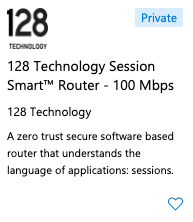
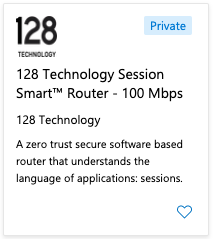
Addressed comments PR59. Replace markdown image sintax with HTML in order to resize images

diff --git a/docs/intro_installation_azure.md b/docs/intro_installation_azure.md
@@ -34,30 +34,33 @@ The following image depicts a graphical representation of the infrastructure ele
 
 #### Azure Portal
 
-Please click [here](https://azuremarketplace.microsoft.com/en-ca/marketplace/apps/128technology.128technology_conductor_hourly) to go to the Marketplace. Click on the "Get it now" button, agree to the terms of use and privacy policy and click on the tab "Plans" as shown in the following picture:
+Please click [here](https://azuremarketplace.microsoft.com/en-ca/marketplace/apps/128technology.128technology_conductor_hourly) to go to the Marketplace. Click on the "Get it now" button, agree to the terms of use and privacy policy of the image and click on the tab "Plans" as shown in the following picture:
 
 ![Plans](/img/platforms_azure_plans.png)
 
 Lastly click on the "Launch" link of the template that better suits your needs.
 
 Answer the following 3 questions to launch the deployment of a 128T Conductor (additional information [here](#launch-the-template)):
-* What name do you want to give it? Provide it in the "Instance Name" field (for example: 128TConductor).
-* Where do you want to deploy it? Provide the location where the VNet exists in the "Location" field (for example: eastus. All available locations [here](https://azure.microsoft.com/en-us/global-infrastructure/locations)), the name of the VNet in the "Virtual Network Name" field (for example: 128T-VNet) and the name of a subnet in the "Control Subnet Name" field (for example: default).
-* Who is going to be the administrator? Provide an username (for example: t128) in the "Admin Username" field and the content of your public SSH key in the "Admin Public Key Data" field respectively.
+* What name do you want to give it?  
+Provide it in the "Instance Name" field (for example: 128TConductor).
+* Where do you want to deploy it?  
+Provide the location where the VNet exists in the "Location" field (for example: eastus. All available locations [here](https://azure.microsoft.com/en-us/global-infrastructure/locations)), the name of the VNet in the "Virtual Network Name" field (for example: 128T-VNet) and the name of a subnet in the "Control Subnet Name" field (for example: default).
+* Who is going to be the administrator?  
+Provide an username (for example: t128) in the "Admin Username" field and the content of your public SSH key in the "Admin Public Key Data" field respectively.
 
-Agree to the terms of use and conditions and lastly click on the "Purchase" button to launch the deployment.
+Agree to the terms of use and conditions of the deployment and lastly click on the "Purchase" button to launch the deployment.
 
 ![Plans](/img/platforms_azure_deployment_complete.png)
 
-Once the deployment completes information of the newly 128T Conductor deployment is provided in the Outputs tab placed on the left hand side. Click on the HTTPs URL to login to the 128T Conductor GUI (if the web browser used is Chrome and it does not trust the connection to the 128T Conductor GUI due to its self-signed certificate type: thisisunsafe). The credentials are "admin" for username and the name of the VM for the password. To login to the VM via SSH use the username and the SSH public key provided in the template.
+Once the deployment completes, information of the newly 128T Conductor deployment is provided in the Outputs tab placed on the left hand side. Click on the HTTPs URL to login to the 128T Conductor GUI (if the web browser used is Chrome and it does not trust the connection to the 128T Conductor GUI due to its self-signed certificate type: thisisunsafe). The credentials are "admin" for username and the name of the VM for the password. To login to the VM via SSH use the username and the SSH public key provided in the template.
 
 :::important
 Be sure to change the password that conforms to your business' password requirements and criteria.
-:::important
+:::
 
 #### Azure CLI or PowerShell
 
-Please click [here](https://azuremarketplace.microsoft.com/en-ca/marketplace/apps/128technology.128technology_conductor_hourly) to go to the Marketplace. Click on the "Get it now" button, agree to the terms of use and privacy policy, click on the "Get started" button to enable programmatic deployment for the subscription and click the button "Save" to save the changes.
+Please click [here](https://azuremarketplace.microsoft.com/en-ca/marketplace/apps/128technology.128technology_conductor_hourly) to go to the Marketplace. Click on the "Get it now" button, agree to the terms of use and privacy policy of the image, click on the "Get started" button to enable programmatic deployment for the subscription and click the button "Save" to save the changes.
 
 ![Plans](/img/platforms_azure_programmatically.png)
 
@@ -67,13 +70,13 @@ Click on the tab "Plans" as shown in the following picture:
 
 Lastly copy to the clipboard the URL of the template located in the field "URL" that better suits your needs.
 
-Create the parameters file, accept the terms of use and conditions and lastly launch the deployment with the corresponding Azure CLI or PowerShell commands making use of the URL of the template identified previously. For additional information please click [here](#launch-the-template).
+Create the parameters file, accept the terms of use and conditions of the image and lastly launch the deployment with the corresponding Azure CLI or PowerShell commands making use of the URL of the template identified previously. For additional information please click [here](#launch-the-template).
 
-Once the deployment completes information of the newly 128T Conductor deployment is provided in the Outputs section. Click on the HTTPs URL to login to the 128T Conductor GUI (if the web browser used is Chrome and it does not trust the connection to the 128T Conductor GUI due to its self-signed certificate type: thisisunsafe). The credentials are "admin" for username and the password is the name of the VM. To login to the VM via SSH use the username and the SSH public key provided in the template.
+Once the deployment completes, information of the newly 128T Conductor deployment is provided in the Outputs section. Click on the HTTPs URL to login to the 128T Conductor GUI (if the web browser used is Chrome and it does not trust the connection to the 128T Conductor GUI due to its self-signed certificate type: thisisunsafe). The credentials are "admin" for username and the password is the name of the VM. To login to the VM via SSH use the username and the SSH public key provided in the template.
 
 :::important
 Be sure to change the password that conforms to your business' password requirements and criteria.
-:::important
+:::
 
 ## 128T Session Smart Router Deployment
 
@@ -91,7 +94,7 @@ The following infrastructure must exist in your Azure subscription:
 
 :::important
 Please note that deploying 128 Technology Session Smart Routers without a valid certificate will be limited to deployments within the cloud only. If your use case requires the deployment of a 128T Router on your premises as well please contact 128 Technology directly [here](https://www.128technology.com/get-started).
-:::important
+:::
 
 ### Deployment
 
@@ -110,29 +113,33 @@ The following image depicts a graphical representation of the infrastructure ele
 
 #### Azure Portal
 
-Please click [here](https://azuremarketplace.microsoft.com/en-us/marketplace/apps/128technology.128technology_router_100_hourly) to go to the Marketplace. Click on the "Get it now" button, agree to the terms of use and privacy policy and click on the tab "Plans" as shown in the following picture:
+Please click [here](https://azuremarketplace.microsoft.com/en-us/marketplace/apps/128technology.128technology_router_100_hourly) to go to the Marketplace. Click on the "Get it now" button, agree to the terms of use and privacy policy of the image and click on the tab "Plans" as shown in the following picture:
 
 ![Plans](/img/platforms_azure_plans.png)
 
 Lastly click on the "Launch" link of the template that better suits your needs.
 
 Answer the following 4 questions to launch the deployment of a 128T Session Smart Router (additional information [here](#launch-the-template)):
-* What name do you want to give it? Provide it in the "Instance Name" field (for example: 128TRouter).
-* Where do you want to deploy it? Provide the location where the VNet exists in the "Location" field (for example: eastus. All available locations [here](https://azure.microsoft.com/en-us/global-infrastructure/locations)), the name of the VNet in the "Virtual Network Name" field (for example: 128T-VNet), the name of the availability set in the "Availability Set Name" field (for example: 128TRouterSet) and the name of the public, private and management subnets in the "Public Subnet Name", "Private Subnet Name" and "Management Subnet Name" fields respectively (for example: wan, lan and default).
-* Which 128T Conductor is going to manage it? Provide the IP address of the primary node of Conductor in the "Conductor Primary Control IP" field, and only if the Conductor is highly available then provide the IP address of the secondary node of Conductor in the "Conductor Secondary Control IP" field. Please check the public IP address assigned to the 128 Technology Conductor deployed in the previous section.
-* Who is going to be the administrator? Provide an username (for example: t128) and the content of your public SSH key in the "Admin Username" and "Admin Public Key Data" fields respectively.
+* What name do you want to give it?  
+Provide it in the "Instance Name" field (for example: 128TRouter).
+* Where do you want to deploy it?  
+Provide the location where the VNet exists in the "Location" field (for example: eastus. All available locations [here](https://azure.microsoft.com/en-us/global-infrastructure/locations)), the name of the VNet in the "Virtual Network Name" field (for example: 128T-VNet), the name of the availability set in the "Availability Set Name" field (for example: 128TRouterSet) and the name of the public, private and management subnets in the "Public Subnet Name", "Private Subnet Name" and "Management Subnet Name" fields respectively (for example: wan, lan and default).
+* Which 128T Conductor is going to manage it?  
+Provide the IP address of the primary node of Conductor in the "Conductor Primary Control IP" field, and only if the Conductor is highly available then provide the IP address of the secondary node of Conductor in the "Conductor Secondary Control IP" field. Please check the public IP address assigned to the 128 Technology Conductor deployed in the previous section.
+* Who is going to be the administrator?  
+Provide an username (for example: t128) and the content of your public SSH key in the "Admin Username" and "Admin Public Key Data" fields respectively.
 
-Agree to the terms of use and conditions and lastly click on the "Purchase" button to launch the deployment.
+Agree to the terms of use and conditions of the deployment and lastly click on the "Purchase" button to launch the deployment.
 
 ![Plans](/img/platforms_azure_deployment_complete.png)
 
-Once the deployment completes information of the newly 128T Session Smart Router deployment is provided in the Outputs tab placed on the left hand side. To login to the instance via SSH use the username and the SSH public key provided in the template.
+Once the deployment completes, information of the newly 128T Session Smart Router deployment is provided in the Outputs tab placed on the left hand side. To login to the instance via SSH use the username and the SSH public key provided in the template.
 
 The deployment will be non interactive as the Zero Touch Provisioning (ZTP) method will be triggered. The ZTP process will take 1-2 minutes to initialize. Please login to Conductor via HTTPs to associate the pending asset with the configuration of the router once the ZTP process is ready to start.
 
 #### Azure CLI or PowerShell
 
-Please click [here](https://azuremarketplace.microsoft.com/en-us/marketplace/apps/128technology.128technology_router_100_hourly) to go to the Marketplace. Click on the "Get it now" button, agree to the terms of use and privacy policy, click on the "Get started" button to enable programmatic deployment for the subscription and click the button "Save" to save the changes.
+Please click [here](https://azuremarketplace.microsoft.com/en-us/marketplace/apps/128technology.128technology_router_100_hourly) to go to the Marketplace. Click on the "Get it now" button, agree to the terms of use and privacy policy of the image, click on the "Get started" button to enable programmatic deployment for the subscription and click the button "Save" to save the changes.
 
 ![Plans](/img/platforms_azure_programmatically.png)
 
@@ -142,9 +149,9 @@ Click on the tab "Plans" as shown in the following picture:
 
 Lastly copy to the clipboard the URL of the template located in the field "URL" that better suits your needs.
 
-Create the parameters file, accept the terms of use and conditions and lastly launch the deployment with the corresponding Azure CLI or PowerShell commands making use of the URL of the template identified previously. For additional information please click [here](#launch-the-template).
+Create the parameters file, accept the terms of use and conditions of the image and lastly launch the deployment with the corresponding Azure CLI or PowerShell commands making use of the URL of the template identified previously. For additional information please click [here](#launch-the-template).
 
-Once the deployment completes information of the newly 128T Session Smart Router deployment is provided in the Outputs section. To login to the VM via SSH use the username and the SSH public key provided in the template.
+Once the deployment completes, information of the newly 128T Session Smart Router deployment is provided in the Outputs section. To login to the VM via SSH use the username and the SSH public key provided in the template.
 
 ### Network interfaces layout
 
@@ -187,9 +194,7 @@ This section describes in greater detail the different 128T images available in 
 The images available to deploy a 128T Conductor are the following:
 
 * 128 Technology Conductor. No certificate from 128 Technology is required to deploy this image, therefore it is the recommended image to use if a certificate from 128 Technology is not in your possession. The 128T software is billed hourly when running in addition to the cost of running the VM. For additional information about this image please visit the Marketplace [here](https://azuremarketplace.microsoft.com/en-ca/marketplace/apps/128technology.128technology_conductor_hourly).
-
 * 128T Networking Platform. A certificate from 128 Technology is required to install the software, therefore it is the recommended image to use if a certificate from 128 Technology is in your possession. There is no cost for running the 128T software, the cost of running the VM is the only cost. For more information about the image please visit the Marketplace [here](https://azuremarketplace.microsoft.com/en-us/marketplace/apps/128technology.128t_networking_platform).
-
 * Private. No certificate from 128 Technology is required to deploy this image. There is no cost for running the 128T software, the cost of running the VM is the only cost. Access to the 128 Technology software should have been provided to your Azure subscription as a result of a partnership agreement.
 
 A section for each of the images available discussed above is shown next. To start with the deployment, please proceed to the section of the image which better suits your requirements.
@@ -206,7 +211,7 @@ Once in the Marketplace type "128 Technology" in the search bar within the Marke
 
 Next click on the "128 Technology Conductor" offering:
 
-![128 Technology Conductor Hourly](/img/platforms_azure_marketplace_conductor_hourly.png)
+<img src="/img/platforms_azure_marketplace_conductor_hourly.png" alt="128 Technology Conductor Hourly" width="220" height="250" />
 
 ##### <u>128T Networking Platform (BYOL)</u>
 
@@ -220,7 +225,7 @@ Once in the Marketplace type "128 Technology" in the search bar within the Marke
 
 Next click on the "128T Networking Platform" offering:
 
-![128T Networking Platform](/img/platforms_azure_marketplace_networkingplatform_byol.png)
+<img src="/img/platforms_azure_marketplace_networkingplatform_byol.png" alt="128T Networking Platform" width="220" height="250" />
 
 ##### <u>Private</u>
 
@@ -234,16 +239,14 @@ Once your subscription id has been whitelisted the following banner will be show
 
 Click on it, and click on the "128 Technology Conductor" offering as shown next:
 
-![128 Technology Conductor Hourly](/img/platforms_azure_marketplace_conductor_private.png)
+<img src="/img/platforms_azure_marketplace_conductor_private.png" alt="128 Technology Conductor Private" width="220" height="250" />
 
 #### 128T Session Smart Router images
 
 The images available in the Azure Marketplace to deploy a 128T Session Smart Router are the following:
 
 * 128T Session Smart Router. No certificate from 128 Technology is required to deploy this image, therefore it is the recommended image to use if a 128 Technology certificate is not in your possession. The 128T software is billed hourly when running in addition to the cost of running the VM. For additional information about this image please visit the Marketplace [here](https://azuremarketplace.microsoft.com/en-ca/marketplace/apps/128technology.128technology_router_100_hourly).
-
 * 128T Networking Platform. A certificate from 128 Technology is required to install the software, therefore it is the recommended image to use if a 128 Technology certificate is in your possession. There is no cost for running the 128T software, the cost of running the VM is the only cost. For more information about the image please visit the Marketplace [here](https://azuremarketplace.microsoft.com/en-us/marketplace/apps/128technology.128t_networking_platform).
-
 * Private. No certificate from 128 Technology is required to deploy this image. There is no cost for running the 128T software, the cost of running the VM is the only cost. Access to the 128 Technology software should have been provided to your Azure subscription as a result of a partnership agreement.
 
 A section for each of the images available discussed above is shown next. To start with the deployment, please proceed to the section of the image which better suits your requirements.
@@ -260,7 +263,7 @@ Once in the Marketplace type "128 Technology" in the search bar within the Marke
 
 Next click on the "128T Session Smart Router" offering:
 
-![128 Technology Conductor Hourly](/img/platforms_azure_marketplace_router_hourly.png)
+<img src="/img/platforms_azure_marketplace_router_hourly.png" alt="128 Technology Session Smart Router Hourly" width="220" height="250" />
 
 ##### <u>128T Networking Platform (BYOL)</u>
 
@@ -274,7 +277,7 @@ Once in the Marketplace type "128 Technology" in the search bar within the Marke
 
 Next click on the "128T Networking Platform" offering:
 
-![128T Networking Platform](/img/platforms_azure_marketplace_networkingplatform_byol.png)
+<img src="/img/platforms_azure_marketplace_networkingplatform_byol.png" alt="128T Networking Platform" width="220" height="250" />
 
 ##### <u>Private</u>
 
@@ -288,11 +291,11 @@ Once your subscription id has been whitelisted the following banner will be show
 
 Click on it, and click on the "128T Session Smart Router offering as shown next:
 
-![128 Technology Conductor Hourly](/img/platforms_azure_marketplace_router_private.png)
+<img src="/img/platforms_azure_marketplace_router_private.png" alt="128 Technology Session Smart Router Private" width="220" height="250" />
 
 ### Agree to the terms of use and privacy policy
 
-To agree to the terms of use and privacy policy of the 128T image to be used. Click on the "Get it now" button as shown in the following image:
+To agree to the terms of use and privacy policy of the 128T image to be used, click on the "Get it now" button as shown in the following image:
 
 ![128 Technology Conductor Hourly](/img/platforms_azure_marketplace_getitnow.png)
 
@@ -348,7 +351,7 @@ As an additional note and only applicable when the chosen image is the 128T Netw
   * The management network must allow outbound access to the Internet so that the 128T installer can download the 128T software from the 128T YUM repositories available on the Internet.
 * Applicable when deploying a 128T Session Smart Router using the 128T Networking Platform image only:
   * If there is an existing 128T Conductor in the network and the intent is to perform a non interactive installation of a 128T Router (for example a ZTP installation) please make sure the certificate provided by 128 Technology has been imported and loaded in 128T Conductor before launching this template.
-:::important
+:::
 
 ### Launch the template
 
@@ -376,11 +379,11 @@ A description of the parameters of the template are listed in the following tabl
 | Admin Allowed CIDR   | It allows for restricting reachability to the control interface of the Conductor to a well known source IP address CIDR range for management purposes. It is common to set this field to 0.0.0.0/0 (accepting traffic from all source IP addresses) for now, as the source IP address/es where the Conductor will be administered from may not be known at this time. However, once the deployment completes, it is highly recommended to update the configuration of the network security group to allow only access from the source IP address/es where the 128T Conductor will be administered.                                                                                                                                                                                     |
 | Certificate SASURL   | Optional field and only applicable to BYOL images. The field Certificate SAS URL is optional even when deploying a BYOL image. If the field is not set the installation of the 128T software will be interactive and will commence after logging into the instance via SSH. On the other hand, if the field is set to a SAS URL that points to a valid 128 Technology certificate then the deployment will be performed in non interactive mode, in other words, the latest version of the 128T software will be installed as part of the deployment automatically on your behalf. Please note that installing the 128T software requires additional time. While the 128T software installs SSH access to the VM instance will be disabled, and it will be enabled once the 128T software installation completes. For additional information regarding how to obtain a SAS URL for your 128 Technology certificate please refer to [Certificate SAS URL](#certificate-sas-url).                                                                                                                          |
 
-Accept the terms and conditions ticking on the box I agree to the terms and conditions stated above.
+Accept the terms and conditions of the deployment ticking on the box "I agree to the terms and conditions stated above".
 
 Lastly click on the button Purchase to start the deployment.
 
-Once the deployment of the template completes information of the newly 128T Conductor deployment is provided in the tab Output placed at the left hand side.
+Once the deployment of the template completes, information of the newly 128T Conductor deployment is provided in the tab Output placed at the left hand side.
 
 ![Plans](/img/platforms_azure_deployment_complete.png)
 
@@ -395,7 +398,7 @@ When logging to the Linux instance via SSH make use of the username specified in
 When logging to the 128T application via CLI or HTTPs the username is "admin" and the password:
 * For Hourly and Private images the password is the name of the VM.
 * For BYOL images the password is the one that was specified during the interactive initialization process.
-:::important
+:::
 
 Alternatively, it is possible to launch the template programmatically. The PowerShell commands for each 128 Technology image are shown next, please run the commands corresponding to the image you want to use:
 
@@ -445,7 +448,7 @@ and paste the following JSON content, please adjust the values to your specific 
 }
 ```
 
-Click [here](https://azuremarketplace.microsoft.com/en-us/marketplace/apps/128technology.128technology_conductor_hourly) to go to the Marketplace. Click on the "Get it now" button, agree to the terms of use and privacy policy, click on the "Get started" button to enable programmatic deployment for the subscription and click the button "Save" to save the changes.
+Click [here](https://azuremarketplace.microsoft.com/en-us/marketplace/apps/128technology.128technology_conductor_hourly) to go to the Marketplace. Click on the "Get it now" button, agree to the terms of use and privacy policy of the image, click on the "Get started" button to enable programmatic deployment for the subscription and click the button "Save" to save the changes.
 
 ![Plans](/img/platforms_azure_programmatically.png)
 
@@ -503,7 +506,7 @@ and paste the following JSON content, please adjust the values to your specific 
 }
 ```
 
-Click [here](https://azuremarketplace.microsoft.com/en-us/marketplace/apps/128technology.128t_networking_platform) to go to the Marketplace. Click on the "Get it now" button, agree to the terms of use and privacy policy, click on the "Get started" button to enable programmatic deployment for the subscription and click the button "Save" to save the changes.
+Click [here](https://azuremarketplace.microsoft.com/en-us/marketplace/apps/128technology.128t_networking_platform) to go to the Marketplace. Click on the "Get it now" button, agree to the terms of use and privacy policy of the image, click on the "Get started" button to enable programmatic deployment for the subscription and click the button "Save" to save the changes.
 
 ![Plans](/img/platforms_azure_programmatically.png)
 
@@ -542,11 +545,11 @@ A description of the parameters of the template are listed in the following tabl
 | Admin Username       | Fill out the field Admin Username with the desired username to login to the VM (Linux) via SSH.                                                                              |
 | Admin Public Key Data| Paste in the field Admin Public Key Data the SSH public key to be used to authenticate with the VM (Linux) instance via SSH. The key needs to be at least 2048-bit and in ssh-rsa format. Please find the following an example of a valid key next (To reduce the length of the key in this example multiple character have been replaced by three dots): ```ssh-rsa AAAAB3NzaC1yc2EAAAADAQABAAACAQDHwB1Qe1KndGqKuT3F...GumfdHfdasy8N0kncMtp2wtkqoLsRWdJ4/WKaZBOrPd4Q== admin@Admin-MacBook-Pro.local```. For more information about creating ssh keys, see [Create SSH keys on Linux and Mac for Linux VMs in Azure](https://docs.microsoft.com/en-us/azure/virtual-machines/linux/mac-create-ssh-keys).                                                                                                         |
 
-Accept the terms and conditions ticking on the box I agree to the terms and conditions stated above.
+Accept the terms and conditions of the deployment ticking on the box "I agree to the terms and conditions stated above".
 
 Lastly click on the button Purchase to start the deployment.
 
-Once the deployment of the template completes information of the newly 128T Session Smart Router deployment is provided in the tab Output placed at the left hand side.
+Once the deployment of the template completes, information of the newly 128T Session Smart Router deployment is provided in the tab Output placed at the left hand side.
 
 ![Plans](/img/platforms_azure_deployment_complete.png)
 
@@ -564,7 +567,7 @@ When logging to the Linux instance via SSH make use of the username specified in
 When logging to the 128T application via CLI or HTTPs the username is "admin" and the password will be:
 * For Hourly and Private images the password is the name of the VM.
 * For BYOL images the password is the one that was specified during the interactive initialization process.
-:::important
+:::
 
 Alternatively, it is possible to launch the template programmatically. The PowerShell commands for each 128 Technology image are shown next, please run the commands corresponding to the image you want to use:
 
@@ -632,7 +635,7 @@ and paste the following JSON content, please adjust the values to your specific 
 }
 ```
 
-Click [here](https://azuremarketplace.microsoft.com/en-us/marketplace/apps/128technology.128technology_router_100_hourly) to go to the Marketplace. Click on the "Get it now" button, agree to the terms of use and privacy policy, click on the "Get started" button to enable programmatic deployment for the subscription and click the button "Save" to save the changes.
+Click [here](https://azuremarketplace.microsoft.com/en-us/marketplace/apps/128technology.128technology_router_100_hourly) to go to the Marketplace. Click on the "Get it now" button, agree to the terms of use and privacy policy of the image, click on the "Get started" button to enable programmatic deployment for the subscription and click the button "Save" to save the changes.
 
 ![Plans](/img/platforms_azure_programmatically.png)
 
@@ -708,7 +711,7 @@ and paste the following JSON content, please adjust the values to your specific 
 }
 ```
 
-Click [here](https://azuremarketplace.microsoft.com/en-us/marketplace/apps/128technology.128t_networking_platform) to go to the Marketplace. Click on the "Get it now" button, agree to the terms of use and privacy policy, click on the "Get started" button to enable programmatic deployment for the subscription and click the button "Save" to save the changes.
+Click [here](https://azuremarketplace.microsoft.com/en-us/marketplace/apps/128technology.128t_networking_platform) to go to the Marketplace. Click on the "Get it now" button, agree to the terms of use and privacy policy of the image, click on the "Get started" button to enable programmatic deployment for the subscription and click the button "Save" to save the changes.
 
 ![Plans](/img/platforms_azure_programmatically.png)
 
@@ -726,7 +729,7 @@ A SAS URL can be used to perform a deployment of a 128 Technolody Conductor usin
 
 :::important
 This section only applies when deploying a 128 Technology Conductor using the 128T Networking Platform image and the "Standalone Conductor" template.
-:::important
+:::
 
 The first step to create a SAS URL is to login to the [Azure Portal](https://portal.azure.com) and in the search bar at the top search for "Storage accounts" as shown in the following picture:
 
